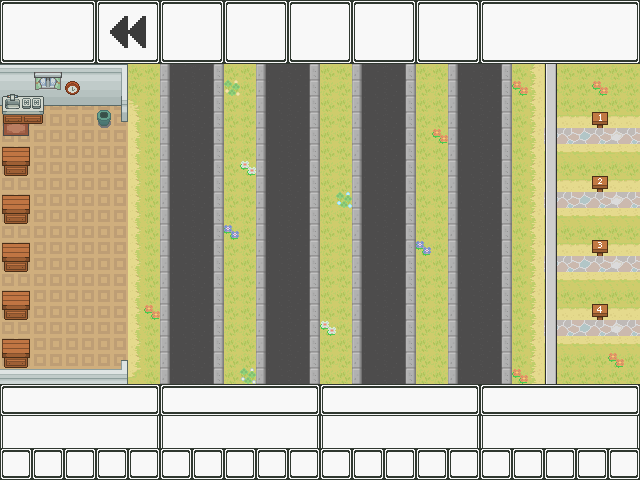
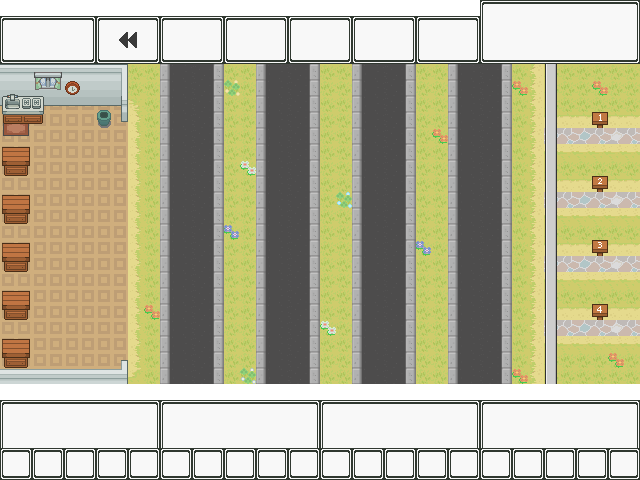
Update game scene with new HUD

Changed region(s): [[0.0, 0.7812, 1.0, 0.875], [0.0, 0.0, 0.75, 0.0938]]

diff --git a/assets/map/hud_smol_arrow.tsx b/assets/map/hud_smol_arrow.tsx
@@ -1,0 +1,4 @@
+<?xml version="1.0" encoding="UTF-8"?>
+<tileset version="1.2" tiledversion="1.2.0" name="hud_smol_arrow" tilewidth="16" tileheight="16" tilecount="2" columns="2">
+ <image source="hud_smol_arrow.png" width="32" height="16"/>
+</tileset>

diff --git a/src/game/data/gameSceneData.h b/src/game/data/gameSceneData.h
@@ -16,48 +16,52 @@ namespace GameSceneData
 	{
 		namespace Top
 		{
-			const Vector2 LOCATION = Vector2(0, 0) * TILE_SIZE;
+			static const Vector2 LOCATION = Vector2(0, 0) * TILE_SIZE;
 
-			const Vector2	HAND_COMB_HUD_LOCATION			= Vector2(0, 0) * TILE_SIZE;
-			
-			const Vector2	HAND_COMB_HUD_PF_REL_LOCATION	= HAND_COMB_HUD_LOCATION + (Vector2(1, 1) * TILE_SIZE);
-			const int		HAND_COMB_HUD_PF_SCALE			= 2;
+			static const Vector2	HAND_TEXT_LOCATION				= Vector2(0, 0) * TILE_SIZE;
 
-			const Vector2	HAND_INDV_HUD_NEXT				= Vector2(4, 0) * TILE_SIZE;
-			const Vector2	HAND_INDV_HUD_LOCATION_1		= Vector2(10, 0) * TILE_SIZE;
-			const Vector2	HAND_INDV_HUD_LOCATION_2		= HAND_INDV_HUD_LOCATION_1 + HAND_INDV_HUD_NEXT;
-			const Vector2	HAND_INDV_HUD_LOCATION_3		= HAND_INDV_HUD_LOCATION_2 + HAND_INDV_HUD_NEXT;
-			const Vector2	HAND_INDV_HUD_LOCATION_4		= HAND_INDV_HUD_LOCATION_3 + HAND_INDV_HUD_NEXT;
-			const Vector2	HAND_INDV_HUD_LOCATION_5		= HAND_INDV_HUD_LOCATION_4 + HAND_INDV_HUD_NEXT;
+			static const Vector2	HAND_COMB_HUD_LOCATION			= Vector2(0, 1) * TILE_SIZE;
 			
-			const Vector2	HAND_INDV_HUD_ING_REL_LOCATION	= Vector2(0, 1) * TILE_SIZE;
-			const int		HAND_INDV_HUD_ING_SCALE			= 2;
+			static const Vector2	HAND_COMB_HUD_PF_REL_LOCATION	= Vector2(1, 0.5) * TILE_SIZE;
+			static const int		HAND_COMB_HUD_PF_SCALE			= 2;
+
+			static const Vector2	HAND_INDV_HUD_NEXT				= Vector2(4, 0) * TILE_SIZE;
+			static const Vector2	HAND_INDV_HUD_LOCATION_1		= Vector2(10, 1) * TILE_SIZE;
+			static const Vector2	HAND_INDV_HUD_LOCATION_2		= HAND_INDV_HUD_LOCATION_1 + HAND_INDV_HUD_NEXT;
+			static const Vector2	HAND_INDV_HUD_LOCATION_3		= HAND_INDV_HUD_LOCATION_2 + HAND_INDV_HUD_NEXT;
+			static const Vector2	HAND_INDV_HUD_LOCATION_4		= HAND_INDV_HUD_LOCATION_3 + HAND_INDV_HUD_NEXT;
+			static const Vector2	HAND_INDV_HUD_LOCATION_5		= HAND_INDV_HUD_LOCATION_4 + HAND_INDV_HUD_NEXT;
+			
+			static const Vector2	HAND_INDV_HUD_ING_REL_LOCATION	= Vector2(0, 0.5) * TILE_SIZE;
+			static const int		HAND_INDV_HUD_ING_SCALE			= 2;
 		}
 
 		namespace Bottom
 		{
-			const Vector2 LOCATION = Vector2(0, 24) * TILE_SIZE;
+			static const Vector2 LOCATION = Vector2(0, 25) * TILE_SIZE;
+			static const Vector2 ORDER_TEXT_LOCATION = Vector2(0, 24) * TILE_SIZE;
 
-			const Vector2	ORDER_HUD_NEXT			= Vector2(10, 0) * TILE_SIZE;
-			const Vector2	ORDER_HUD_LOCATION_1	= Vector2(0, 24) * TILE_SIZE;
-			const Vector2	ORDER_HUD_LOCATION_2	= ORDER_HUD_LOCATION_1 + ORDER_HUD_NEXT;
-			const Vector2	ORDER_HUD_LOCATION_3	= ORDER_HUD_LOCATION_2 + ORDER_HUD_NEXT;
-			const Vector2	ORDER_HUD_LOCATION_4	= ORDER_HUD_LOCATION_3 + ORDER_HUD_NEXT;
+			static const Vector2	ORDER_HUD_NEXT			= Vector2(10, 0) * TILE_SIZE;
+			static const Vector2	ORDER_HUD_LOCATION_1	= Vector2(0, 25) * TILE_SIZE;
+			static const Vector2	ORDER_HUD_LOCATION_2	= ORDER_HUD_LOCATION_1 + ORDER_HUD_NEXT;
+			static const Vector2	ORDER_HUD_LOCATION_3	= ORDER_HUD_LOCATION_2 + ORDER_HUD_NEXT;
+			static const Vector2	ORDER_HUD_LOCATION_4	= ORDER_HUD_LOCATION_3 + ORDER_HUD_NEXT;
 
-			const int	ORDER_HUD_PF_SCALE = 2;
-			const int	ORDER_HUD_IG_SCALE = 1;
-			const int	ORDER_HUD_TEXT_SIZE = 16;
+			static const int	ORDER_HUD_PF_SCALE = 2;
+			static const int	ORDER_HUD_IG_SCALE = 1;
+			static const int	ORDER_HUD_TEXT_SIZE = 16;
 
-			const Vector2	ORDER_HUD_TEXT_REL_LOCATION = Vector2(2, 0) * TILE_SIZE;
-			const Vector2	ORDER_HUD_PF_REL_LOCATION	= Vector2(3, 2) * TILE_SIZE;
 
-			const Vector2	ORDER_HUD_ING_REL_NEXT			= Vector2(2, 0) * TILE_SIZE;
-			const Vector2	ORDER_HUD_ING_REL_LOCATION_1	= Vector2(0, 4.5) * TILE_SIZE;
-			const Vector2	ORDER_HUD_ING_REL_LOCATION_2	= ORDER_HUD_ING_REL_LOCATION_1 + ORDER_HUD_ING_REL_NEXT;
-			const Vector2	ORDER_HUD_ING_REL_LOCATION_3	= ORDER_HUD_ING_REL_LOCATION_2 + ORDER_HUD_ING_REL_NEXT;
-			const Vector2	ORDER_HUD_ING_REL_LOCATION_4	= ORDER_HUD_ING_REL_LOCATION_3 + ORDER_HUD_ING_REL_NEXT;
-			const Vector2	ORDER_HUD_ING_REL_LOCATION_5	= ORDER_HUD_ING_REL_LOCATION_4 + ORDER_HUD_ING_REL_NEXT;
-			const std::vector<Vector2> ORDER_HUD_ING_REL_LOCATIONS =
+			static const Vector2	ORDER_HUD_TIME_REL_LOCATION = Vector2(5, 1) * TILE_SIZE;
+			static const Vector2	ORDER_HUD_PF_REL_LOCATION	= Vector2(0.5, 0.5) * TILE_SIZE;
+
+			static const Vector2	ORDER_HUD_ING_REL_NEXT			= Vector2(2, 0) * TILE_SIZE;
+			static const Vector2	ORDER_HUD_ING_REL_LOCATION_1	= Vector2(0, 3.5) * TILE_SIZE;
+			static const Vector2	ORDER_HUD_ING_REL_LOCATION_2	= ORDER_HUD_ING_REL_LOCATION_1 + ORDER_HUD_ING_REL_NEXT;
+			static const Vector2	ORDER_HUD_ING_REL_LOCATION_3	= ORDER_HUD_ING_REL_LOCATION_2 + ORDER_HUD_ING_REL_NEXT;
+			static const Vector2	ORDER_HUD_ING_REL_LOCATION_4	= ORDER_HUD_ING_REL_LOCATION_3 + ORDER_HUD_ING_REL_NEXT;
+			static const Vector2	ORDER_HUD_ING_REL_LOCATION_5	= ORDER_HUD_ING_REL_LOCATION_4 + ORDER_HUD_ING_REL_NEXT;
+			static const std::vector<Vector2> ORDER_HUD_ING_REL_LOCATIONS =
 			{
 				ORDER_HUD_ING_REL_LOCATION_1,
 				ORDER_HUD_ING_REL_LOCATION_2,
@@ -70,19 +74,19 @@ namespace GameSceneData
 
 	namespace Map
 	{
-		const Vector2 LOCATION = Vector2(0, 4) * TILE_SIZE;
-		const int HEIGHT	= 320;
-		const int WIDTH		= 640;
-		const CollisionBounds BOUNDS = { LOCATION, LOCATION + Vector2(WIDTH, HEIGHT) };
+		static const Vector2 LOCATION = Vector2(0, 4) * TILE_SIZE;
+		static const int HEIGHT	= 320;
+		static const int WIDTH		= 640;
+		static const CollisionBounds BOUNDS = { LOCATION, LOCATION + Vector2(WIDTH, HEIGHT) };
 
-		const Vector2 VEHICLE_SPAWN_LOCATION1 = Vector2(11, 21) * TILE_SIZE;
-		const Vector2 VEHICLE_SPAWN_LOCATION2 = Vector2(17, 4) * TILE_SIZE;
-		const Vector2 VEHICLE_SPAWN_LOCATION3 = Vector2(23, 21) * TILE_SIZE;
-		const Vector2 VEHICLE_SPAWN_LOCATION4 = Vector2(29, 4) * TILE_SIZE;
+		static const Vector2 VEHICLE_SPAWN_LOCATION1 = Vector2(11, 21) * TILE_SIZE;
+		static const Vector2 VEHICLE_SPAWN_LOCATION2 = Vector2(17, 4) * TILE_SIZE;
+		static const Vector2 VEHICLE_SPAWN_LOCATION3 = Vector2(23, 21) * TILE_SIZE;
+		static const Vector2 VEHICLE_SPAWN_LOCATION4 = Vector2(29, 4) * TILE_SIZE;
 
-		const Vector2 PLAYER_SPAWN_LOCATION = Vector2(7, 14) * TILE_SIZE;
+		static const Vector2 PLAYER_SPAWN_LOCATION = Vector2(7, 14) * TILE_SIZE;
 
-		const std::map<Vector2, CollisionBounds> PROPS_LOCATION_BOUNDS =
+		static const std::map<Vector2, CollisionBounds> PROPS_LOCATION_BOUNDS =
 		{
 			// Top wall.
 			{ Vector2(0, 4)  * TILE_SIZE, CollisionBounds { Vector2(0, 0), (Vector2(8, 2) * TILE_SIZE) } },
@@ -94,7 +98,7 @@ namespace GameSceneData
 			{ Vector2(34, 4) * TILE_SIZE, CollisionBounds { Vector2(0, 0), (Vector2(1, 20) * TILE_SIZE) } }
 		};
 
-		const std::map<Vector2, Vector2> DISPENSERS_W_AREA_LOCATIONS =
+		static const std::map<Vector2, Vector2> DISPENSERS_W_AREA_LOCATIONS =
 		{
 			{ { Vector2(0, 9) * TILE_SIZE }, { Vector2(2, 9) * TILE_SIZE } } ,
 			{ { Vector2(0, 12) * TILE_SIZE }, { Vector2(2, 12) * TILE_SIZE } },
@@ -103,7 +107,7 @@ namespace GameSceneData
 			{ { Vector2(0, 21) * TILE_SIZE }, { Vector2(2, 21) * TILE_SIZE } }
 		};
 
-		const std::vector<Vector2> COUNTER_AREA =
+		static const std::vector<Vector2> COUNTER_AREA =
 		{
 			{ Vector2(32, 8) * TILE_SIZE },
 			{ Vector2(32, 12) * TILE_SIZE },
@@ -111,8 +115,8 @@ namespace GameSceneData
 			{ Vector2(32, 20) * TILE_SIZE }
 		};
 
-		const std::pair<Vector2, CollisionBounds> TRASH_BIN_LOCATION_BOUNDS = { Vector2(6, 7) * TILE_SIZE, CollisionBounds { Vector2(0, 0) * TILE_SIZE, Vector2(1, 1) * TILE_SIZE } };
-		const std::pair<Vector2, CollisionBounds> TRASH_BIN_AREA_LOCATION_BOUNDS = { Vector2(5, 7) * TILE_SIZE, CollisionBounds { Vector2(0, 0) * TILE_SIZE, Vector2(2, 2) * TILE_SIZE } };
+		static const std::pair<Vector2, CollisionBounds> TRASH_BIN_LOCATION_BOUNDS = { Vector2(6, 7) * TILE_SIZE, CollisionBounds { Vector2(0, 0) * TILE_SIZE, Vector2(1, 1) * TILE_SIZE } };
+		static const std::pair<Vector2, CollisionBounds> TRASH_BIN_AREA_LOCATION_BOUNDS = { Vector2(5, 7) * TILE_SIZE, CollisionBounds { Vector2(0, 0) * TILE_SIZE, Vector2(2, 2) * TILE_SIZE } };
 	}
 }
 

diff --git a/src/game/scene/gameScene.cpp b/src/game/scene/gameScene.cpp
@@ -14,6 +14,8 @@ GameScene::GameScene(const FoodMenu *foodMenu)
 	: Scene(SceneType::GAME)
 {
 	map = Sprite::Create(GAME_SCENE_IMAGE, 0);
+	handText = Text::Create("Hand", "Arial", 0xFFFFFFFF, 16, 100, false, false);
+	ordersText = Text::Create("Orders", "Arial", 0xFFFFFFFF, 16, 100, false, false);
 
 	orderManager = new OrderManager(foodMenu, 10);
 
@@ -84,6 +86,8 @@ GameScene::~GameScene()
 	delete vehicleSpawner;
 
 	delete map;
+	delete ordersText;
+	delete handText;
 
 	delete player;
 
@@ -106,8 +110,11 @@ void GameScene::Update(float deltaTime)
 	vehicleSpawner->Update(deltaTime);
 
 	map->Draw(Vector2(0, 0));
-	
+	handText->Draw(GameSceneData::Hud::Top::HAND_TEXT_LOCATION);
+	ordersText->Draw(GameSceneData::Hud::Bottom::ORDER_TEXT_LOCATION);
+
 	player->Update(deltaTime);
+
 
 	for (GameEntity *entity : entities)
 	{

diff --git a/src/game/hud/hand/handCombHud.h b/src/game/hud/hand/handCombHud.h
@@ -5,11 +5,13 @@
 #include "game/resources.h"
 #include "game/data/food.h"
 #include "game/data/Layer.h"
+#include "handIndvHud.h"
+#include "core/text/text.h"
 
 class HandCombHud : public Hud
 {
 private:
-	Sprite *plateSprite				= Sprite::Create(EMPTY_PLATE_IMAGE, (uint8_t) Layer::PLATE, 2);
+	Sprite *plateSprite				= Sprite::Create(EMPTY_PLATE_IMAGE, Layer::PLATE, GameSceneData::Hud::Top::HAND_COMB_HUD_PF_SCALE);
 	Sprite *platedFoodSprites[5]	= { nullptr };
 public:
 	HandCombHud(Vector2 position);

diff --git a/src/game/scene/gameScene.h b/src/game/scene/gameScene.h
@@ -12,6 +12,8 @@ class GameScene : public Scene
 private:
 	Player *player = nullptr;
 	Sprite *map = nullptr;
+	Text *handText = nullptr;
+	Text *ordersText = nullptr;
 
 	OrderManager *orderManager = nullptr;
 	VehicleSpawner *vehicleSpawner = nullptr;
